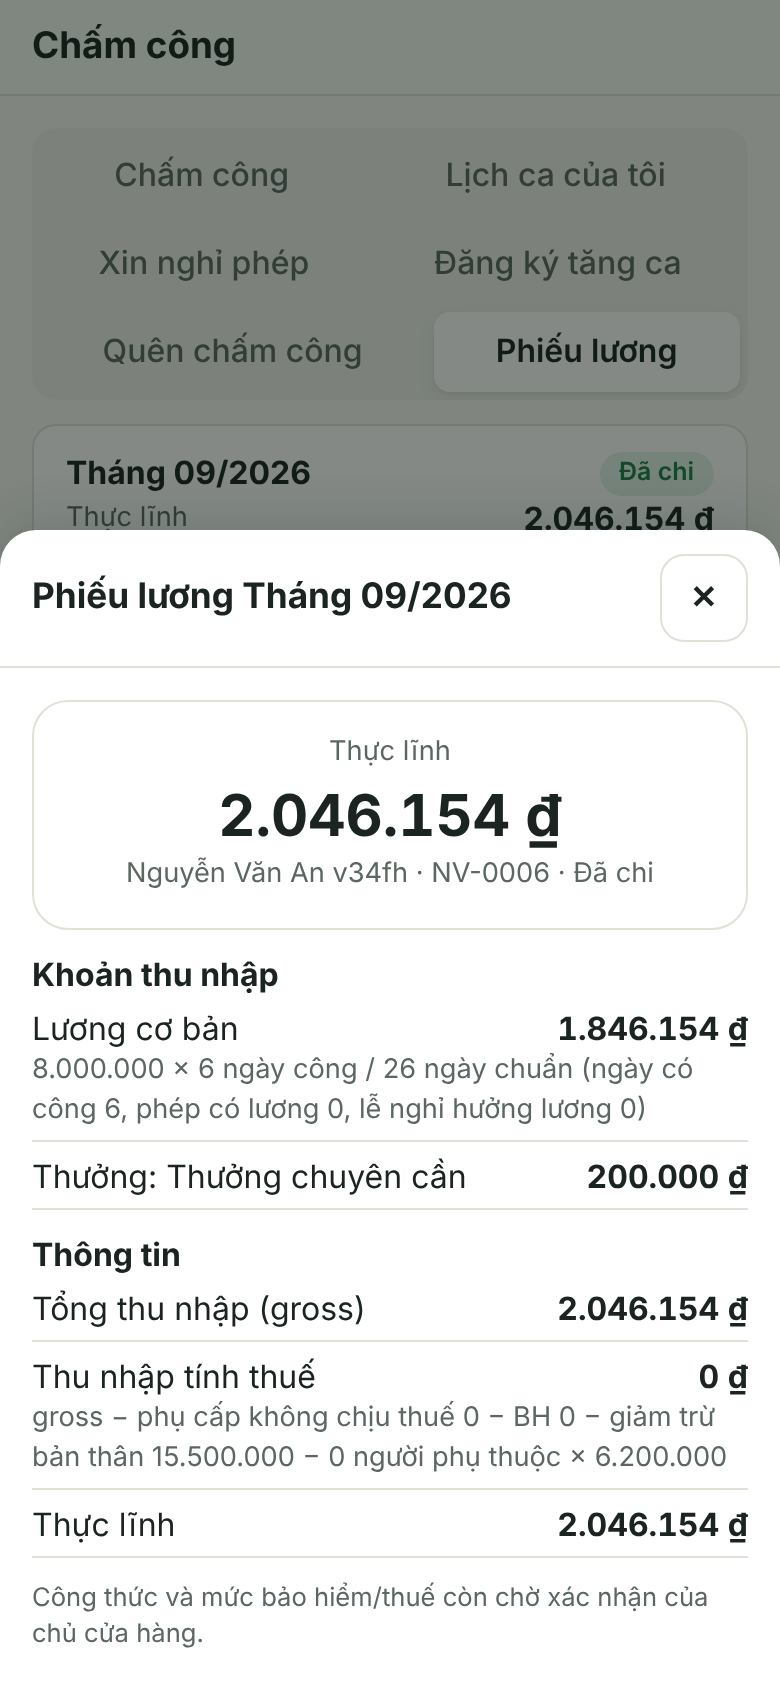
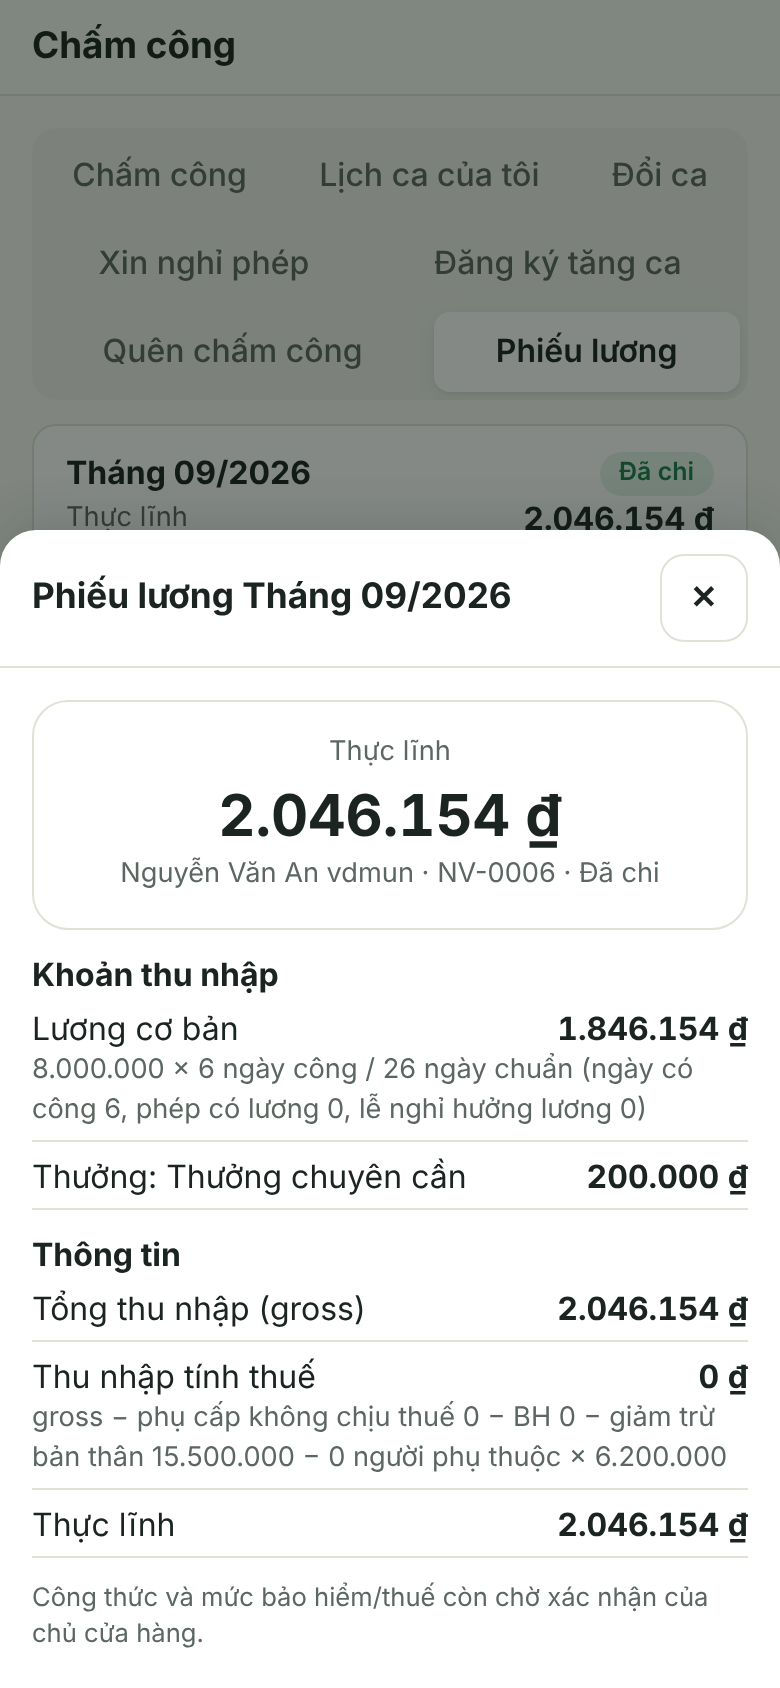
Giao diện Nhân sự: tab Đổi ca cho nhân viên, lịch sử tăng ca/bổ sung công từ API, danh sách đổi ca có tên
Claude-Session: https://claude.ai/code/session_01JfQNbrvSwSMthWKBU7EXzy

diff --git a/src/web/screens/hr/Me.tsx b/src/web/screens/hr/Me.tsx
@@ -6,9 +6,9 @@ import { toast } from "../../components/toast";
 import { money, todayVN } from "../../format";
 import { CORR_TYPE, KIND, LEAVE_TYPE, PUNCH_METHOD, PUNCH_STATUS, REQ_STATUS, addDaysS, days10, dm, dmy, errCode, hm, periodLabel, reqTone, vnIso, vnTime, WD_SHORT, wdOf } from "./kit";
 
-type Tab = "today" | "schedule" | "leave" | "ot" | "corr" | "payslip";
+type Tab = "today" | "schedule" | "swap" | "leave" | "ot" | "corr" | "payslip";
 const TABS: { v: Tab; label: string }[] = [
-  { v: "today", label: "Chấm công" }, { v: "schedule", label: "Lịch ca của tôi" }, { v: "leave", label: "Xin nghỉ phép" },
+  { v: "today", label: "Chấm công" }, { v: "schedule", label: "Lịch ca của tôi" }, { v: "swap", label: "Đổi ca" }, { v: "leave", label: "Xin nghỉ phép" },
   { v: "ot", label: "Đăng ký tăng ca" }, { v: "corr", label: "Quên chấm công" }, { v: "payslip", label: "Phiếu lương" },
 ];
 
@@ -20,6 +20,7 @@ export default function Me() {
       <Segmented wrap value={tab} onChange={setTab} options={TABS} />
       {tab === "today" && <Today onCorrection={(p) => { setPrefill(p); setTab("corr"); }} />}
       {tab === "schedule" && <MySchedule />}
+      {tab === "swap" && <Swaps />}
       {tab === "leave" && <Leave />}
       {tab === "ot" && <Overtime />}
       {tab === "corr" && <Correction prefill={prefill} />}
@@ -282,12 +283,12 @@ function Leave() {
 function Overtime() {
   const [f, setF] = useState({ workDate: todayVN(), hours: 1, reason: "" });
   const [busy, setBusy] = useState(false);
-  const [sent, setSent] = useState<any[]>([]);
+  const hist = useAsync(() => get("/me/overtime-requests").then((r) => items<any>(r)), []);
   const submit = async () => {
     setBusy(true);
     try {
       const r = await post("/me/overtime-requests", { workDate: f.workDate, minutes: Math.round(f.hours * 60), reason: f.reason.trim() || undefined });
-      setSent((s) => [r, ...s]); toast("Đã gửi đăng ký tăng ca, chờ quản lý duyệt", "ok");
+      hist.reload(); toast("Đã gửi đăng ký tăng ca, chờ quản lý duyệt", "ok");
     } catch { /* toast */ } finally { setBusy(false); }
   };
   return (
@@ -301,9 +302,9 @@ function Overtime() {
           <div className="hint">Chỉ phần tăng ca được quản lý duyệt mới được tính lương.</div>
         </div>
       </Card>
-      {sent.length > 0 && (
-        <Card title="Vừa gửi">
-          {sent.map((r) => <div key={r.id} className="row between"><span>{dmy(r.workDate)} · {hm(r.minutes)}</span><Badge tone={reqTone(r.status)}>{REQ_STATUS[r.status]}</Badge></div>)}
+      {(hist.data ?? []).length > 0 && (
+        <Card title="Đã đăng ký">
+          {hist.data!.map((r) => <div key={r.id} className="row between"><span>{dmy(r.workDate)} · {hm(r.minutes)}</span><Badge tone={reqTone(r.status)}>{REQ_STATUS[r.status]}</Badge></div>)}
         </Card>
       )}
     </div>
@@ -314,7 +315,7 @@ function Overtime() {
 function Correction({ prefill }: { prefill: any }) {
   const [f, setF] = useState({ workDate: prefill?.workDate ?? todayVN(), type: prefill?.type ?? "missing_out", kind: (prefill?.kind ?? "") as "" | "in" | "out", time: "", reason: "" });
   const [busy, setBusy] = useState(false);
-  const [sent, setSent] = useState<any[]>([]);
+  const hist = useAsync(() => get("/me/attendance/corrections").then((r) => items<any>(r)), []);
   const kind = f.kind || (f.type === "missing_in" ? "in" : f.type === "missing_out" ? "out" : "");
   const submit = async () => {
     setBusy(true);
@@ -323,7 +324,7 @@ function Correction({ prefill }: { prefill: any }) {
       if (kind) body.kind = kind;
       if (f.time) body.requestedAt = vnIso(f.workDate, f.time);
       const r = await post("/me/attendance/corrections", body);
-      setSent((s) => [{ ...r, workDate: f.workDate, type: f.type }, ...s]); toast("Đã gửi yêu cầu bổ sung công", "ok"); setF({ ...f, reason: "" });
+      hist.reload(); toast("Đã gửi yêu cầu bổ sung công", "ok"); setF({ ...f, reason: "" });
     } catch { /* toast */ } finally { setBusy(false); }
   };
   return (
@@ -344,9 +345,9 @@ function Correction({ prefill }: { prefill: any }) {
           <Button block loading={busy} disabled={!f.reason.trim() || !f.workDate || !kind || !f.time} onClick={submit}>Gửi yêu cầu</Button>
         </div>
       </Card>
-      {sent.length > 0 && (
-        <Card title="Vừa gửi">
-          {sent.map((r) => <div key={r.id} className="row between"><span>{dmy(r.workDate)} · {CORR_TYPE[r.type]}</span><Badge tone="warn">Chờ duyệt</Badge></div>)}
+      {(hist.data ?? []).length > 0 && (
+        <Card title="Yêu cầu đã gửi">
+          {hist.data!.map((r) => <div key={r.id} className="row between"><span>{dmy(r.workDate)} · {CORR_TYPE[r.type]}</span><Badge tone={reqTone(r.status)}>{REQ_STATUS[r.status] ?? r.status}</Badge></div>)}
         </Card>
       )}
     </div>
@@ -402,5 +403,44 @@ function PayslipSheet({ period, onClose }: { period: string; onClose: () => void
         </div>
       )}
     </Sheet>
+  );
+}
+
+/* ================= Đổi ca ================= */
+function Swaps() {
+  const from = todayVN();
+  const shifts = useAsync(() => get("/me/schedule", { from, to: addDaysS(from, 20) }).then((r) => items<any>(r).filter((x) => x.startAt > new Date().toISOString())), []);
+  const col = useAsync(() => get("/me/colleagues").then((r) => items<any>(r)), []);
+  const sw = useAsync(() => get("/me/schedule/swaps").then((r) => items<any>(r)), []);
+  const me = useAsync(() => get("/me/attendance/today", undefined, { silent: true }).then((r) => r.employee?.id as number), []);
+  const [f, setF] = useState({ from: "", to: "", reason: "" });
+  const [busy, setBusy] = useState(false);
+  const submit = async () => {
+    setBusy(true);
+    try { await post("/schedule/swaps", { fromAssignmentId: Number(f.from || shifts.data?.[0]?.id), toEmployeeId: Number(f.to || col.data?.[0]?.id), reason: f.reason.trim() }); toast("Đã gửi yêu cầu đổi ca", "ok"); setF({ ...f, reason: "" }); sw.reload(); } catch { /* toast */ } finally { setBusy(false); }
+  };
+  const accept = async (id: number) => { try { await post(`/schedule/swaps/${id}/accept`, {}); toast("Đã đồng ý nhận ca, chờ quản lý duyệt", "ok"); sw.reload(); } catch { /* toast */ } };
+  return (
+    <div className="stack">
+      <Card title="Xin đổi ca">
+        {!(shifts.data ?? []).length ? <div className="muted">Bạn chưa có ca sắp tới để đổi.</div> : (
+          <div className="stack">
+            <Select label="Ca của tôi" value={f.from || String(shifts.data![0].id)} onChange={(e) => setF({ ...f, from: e.target.value })}>{shifts.data!.map((x) => <option key={x.id} value={x.id}>{WD_SHORT[wdOf(x.workDate)]} {dm(x.workDate)} · {x.shiftName}</option>)}</Select>
+            <Select label="Đồng nghiệp nhận ca" value={f.to || String(col.data?.[0]?.id ?? "")} onChange={(e) => setF({ ...f, to: e.target.value })}>{(col.data ?? []).map((x) => <option key={x.id} value={x.id}>{x.fullName}</option>)}</Select>
+            <TextArea label="Lý do" rows={2} value={f.reason} onChange={(e) => setF({ ...f, reason: e.target.value })} />
+            <Button block loading={busy} disabled={!f.reason.trim() || !(col.data ?? []).length} onClick={submit}>Gửi yêu cầu đổi ca</Button>
+          </div>
+        )}
+      </Card>
+      <Card title="Yêu cầu đổi ca của tôi">
+        {!(sw.data ?? []).length ? <div className="muted">Chưa có yêu cầu.</div> : sw.data!.map((x) => (
+          <div key={x.id} className="stack" style={{ gap: 4, borderBottom: "1px solid var(--border)", padding: "6px 0" }}>
+            <div className="row between"><b>{x.fromEmployeeName} → {x.toEmployeeName}</b><Badge tone={reqTone(x.status)}>{x.status === "pending" ? "Chờ nhận ca" : x.status === "accepted" ? "Chờ quản lý duyệt" : REQ_STATUS[x.status] ?? x.status}</Badge></div>
+            <div className="small">{x.fromShiftName} {x.fromWorkDate ? dm(x.fromWorkDate) : ""}{x.toAssignmentId ? ` ⇄ ${x.toShiftName} ${dm(x.toWorkDate)}` : ""} · {x.reason}</div>
+            {x.status === "pending" && x.toEmployeeId === me.data && <Button size="sm" onClick={() => accept(x.id)}>Đồng ý nhận ca</Button>}
+          </div>
+        ))}
+      </Card>
+    </div>
   );
 }

diff --git a/src/web/screens/hr/Schedule.tsx b/src/web/screens/hr/Schedule.tsx
@@ -118,14 +118,10 @@ function Week({ write }: { write: boolean }) {
 function Swaps() {
   const today = todayVN();
   const l = useAsync(() => get("/schedule/swaps").then((r) => items<any>(r)), []);
-  const emps = useAsync(() => get("/employees", { limit: 200 }).then((r) => items<any>(r)), []);
-  const sch = useAsync(() => get("/schedule", { from: addDaysS(today, -30), to: addDaysS(today, 60) }).then((r) => items<any>(r)), []);
-  const name = (id: number) => emps.data?.find((e) => e.id === id)?.fullName ?? `NV #${id}`;
-  const asg = (id?: number | null) => { const a = sch.data?.find((x) => x.id === id); return a ? `${a.shiftName} ${dm(a.workDate)}` : id ? `ca #${id}` : "—"; };
   const [busy, setBusy] = useState<number | null>(null);
   const decide = async (id: number, decision: string) => {
     setBusy(id);
-    try { await post(`/schedule/swaps/${id}/decide`, { decision }); toast(decision === "approved" ? "Đã duyệt đổi ca" : "Đã từ chối", "ok"); l.reload(); sch.reload(); } catch { /* toast */ } finally { setBusy(null); }
+    try { await post(`/schedule/swaps/${id}/decide`, { decision }); toast(decision === "approved" ? "Đã duyệt đổi ca" : "Đã từ chối", "ok"); l.reload(); } catch { /* toast */ } finally { setBusy(null); }
   };
   if (l.loading) return <Spinner />;
   const rows = l.data ?? [];
@@ -134,12 +130,11 @@ function Swaps() {
       {!rows.length && <Card><div className="muted">Chưa có yêu cầu đổi ca.</div></Card>}
       {rows.map((s) => {
         const wait = ["pending", "accepted"].includes(s.status);
-        const from = sch.data?.find((x) => x.id === s.fromAssignmentId);
         return (
           <Card key={s.id}>
             <div className="stack" style={{ gap: 6 }}>
-              <div className="row between"><b>{from ? name(from.employeeId) : "NV"} → {name(s.toEmployeeId)}</b><Badge tone={reqTone(s.status)}>{s.status === "pending" ? "Chờ NV nhận ca" : REQ_STATUS[s.status] ?? s.status}</Badge></div>
-              <div className="small">Ca đổi: {asg(s.fromAssignmentId)}{s.toAssignmentId ? ` ⇄ ${asg(s.toAssignmentId)}` : ""}</div>
+              <div className="row between"><b>{s.fromEmployeeName} → {s.toEmployeeName}</b><Badge tone={reqTone(s.status)}>{s.status === "pending" ? "Chờ NV nhận ca" : REQ_STATUS[s.status] ?? s.status}</Badge></div>
+              <div className="small">Ca đổi: {s.fromShiftName} {s.fromWorkDate ? dm(s.fromWorkDate) : ""}{s.toAssignmentId ? ` ⇄ ${s.toShiftName} ${dm(s.toWorkDate)}` : ""}</div>
               <div className="small muted">Lý do: {s.reason}</div>
               {wait && <div className="row"><Button size="sm" loading={busy === s.id} disabled={s.status !== "accepted"} onClick={() => decide(s.id, "approved")}>Duyệt</Button><Button size="sm" variant="ghost" onClick={() => decide(s.id, "rejected")}>Từ chối</Button></div>}
             </div>
